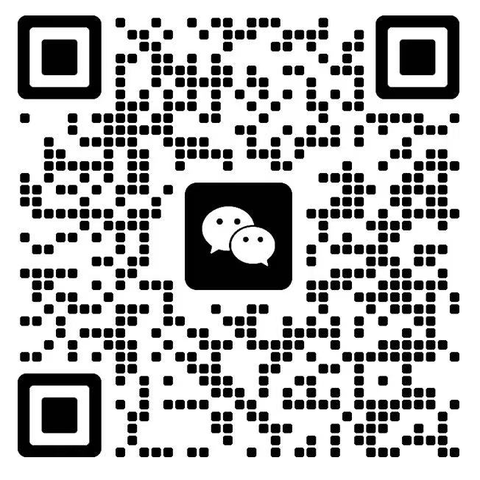
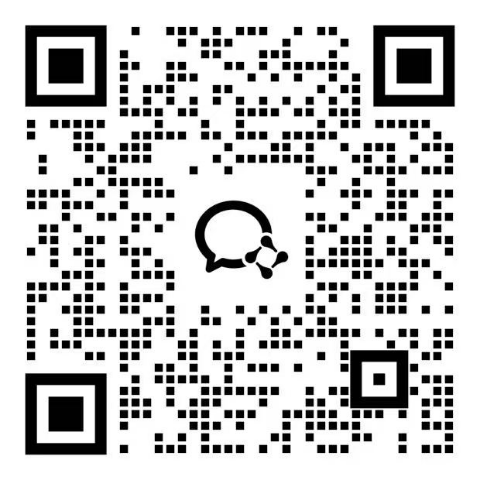
contact: 客服二维码换成企业微信，充值话术由「转账」改为「红包」
- 新码从企业微信名片截图裁出（480×480，含 6% 白边），已用 OpenCV 解码验证可扫；
  原码指向的个人微信无法双开，已停用
- 企业微信暂不支持收转账，只能收红包 -> 钱包弹窗/客服弹窗文案同步改（含「暂不支持转账」提示）
- 二维码显示尺寸 150 -> 168：企业微信名片码模块更多，150px 时单模块 2.6px，
  OpenCV 已解不出（168 起稳定），手机端原本就是 168
- 图片 URL 加 ?v=20261104：同名覆盖不会改 HTML 里的 ?v=，不加会吃一年缓存

diff --git a/shared/platform.js b/shared/platform.js
@@ -272,12 +272,12 @@
     /* 线上支付没开通期间的唯一充值通道：二维码 + 三步说明。
        套餐卡只是标价（让人知道多少钱能买多少积分），钱从这里进来。 */
     '    <div class="manual-pay" id="manualPay">',
-    '      <img class="mp-qr" src="/shared/assets/wechat-qr.png" alt="点豆客服微信二维码" width="150" height="150" />',
+    '      <img class="mp-qr" src="/shared/assets/wechat-qr.png?v=20261104" alt="点豆客服企业微信二维码" width="168" height="168" />',
     '      <div class="mp-body">',
-    '        <p class="mp-title">微信人工充值</p>',
-    '        <p class="mp-desc">扫码加客服微信，告诉他充多少，转账后把<b>注册邮箱</b>发过去。</p>',
+    '        <p class="mp-title">企业微信人工充值</p>',
+    '        <p class="mp-desc">扫码加客服，发<b>对应金额的红包</b>，再留<b>注册邮箱</b>。</p>',
     '        <p class="mp-eta">10 分钟内到账</p>',
-    '        <p class="mp-tip">手机用户可长按二维码识别</p>',
+    '        <p class="mp-tip">暂不支持转账，请发红包 · 长按可识别</p>',
     '      </div>',
     '    </div>',
     '    <div class="login-divider"><span>或</span></div>',
@@ -328,9 +328,9 @@
     '    </div>',
     '    <p class="modal-desc">充值、退款、图纸打不开，加微信直接说，一般 10 分钟内回复。</p>',
     '    <div class="contact-qr-wrap">',
-    '      <img class="contact-qr" src="/shared/assets/wechat-qr.png" alt="点豆客服微信二维码" width="220" height="220" />',
+    '      <img class="contact-qr" src="/shared/assets/wechat-qr.png?v=20261104" alt="点豆客服企业微信二维码" width="220" height="220" />',
     '    </div>',
-    '    <p class="contact-step"><b>要充值</b>：加好友后告诉客服充多少 → 转账 → 把<b>注册邮箱</b>发过来，10 分钟内到账。</p>',
+    '    <p class="contact-step"><b>要充值</b>：加好友后发<b>对应金额的红包</b>（暂不支持转账）→ 把<b>注册邮箱</b>发过来，10 分钟内到账。</p>',
     '    <p class="contact-step">手机用户可以长按二维码识别添加。</p>',
     '  </div>',
     '</div>'
@@ -836,7 +836,7 @@
     function syncPayNote() {
       if (!els.payChannelsNote) { return; }
       els.payChannelsNote.textContent = payChannelState.xunhupay
-        ? '' : '线上支付正在开通 —— 现在请扫码加客服微信充值，10 分钟内到账。';
+        ? '' : '线上支付正在开通 —— 现在请扫码加客服企业微信，发红包充值，10 分钟内到账。';
     }
     function showWalletMsg(msg, warn) {
       els.walletMsg.textContent = msg;
@@ -956,14 +956,14 @@
     function focusManualPay() {
       var el = els.manualPay;
       if (!el) {
-        showWalletMsg('线上支付正在开通，请扫码加客服微信充值，10 分钟内到账。');
+        showWalletMsg('线上支付正在开通，请扫码加客服企业微信发红包充值，10 分钟内到账。');
         return;
       }
       try { el.scrollIntoView({ block: 'center', behavior: 'smooth' }); }
       catch (_) { el.scrollIntoView(); }
       el.classList.add('flash');
       setTimeout(function () { el.classList.remove('flash'); }, 1800);
-      showWalletMsg('线上支付正在开通，现在走微信人工充值，10 分钟内到账。');
+      showWalletMsg('线上支付正在开通，现在走企业微信人工充值（发红包），10 分钟内到账。');
     }
     function startPay(product) {
       if (!Store.state.user) { openLogin(); return; }

diff --git a/shared/base.css b/shared/base.css
@@ -362,7 +362,9 @@
       box-shadow: 0 0 0 3px rgba(66, 98, 255, .20);
     }
     .mp-qr {
-      width: 150px; height: 150px; flex: none;
+      /* 168 不是随手取的：企业微信名片码模块多（57×57+），150px 时单模块只剩 2.6px，
+         OpenCV 已解不出，手机扫也吃力。168px 是实测能稳定解的临界点。 */
+      width: 168px; height: 168px; flex: none;
       border-radius: var(--radius-md);
       background: #fff;
       display: block;
